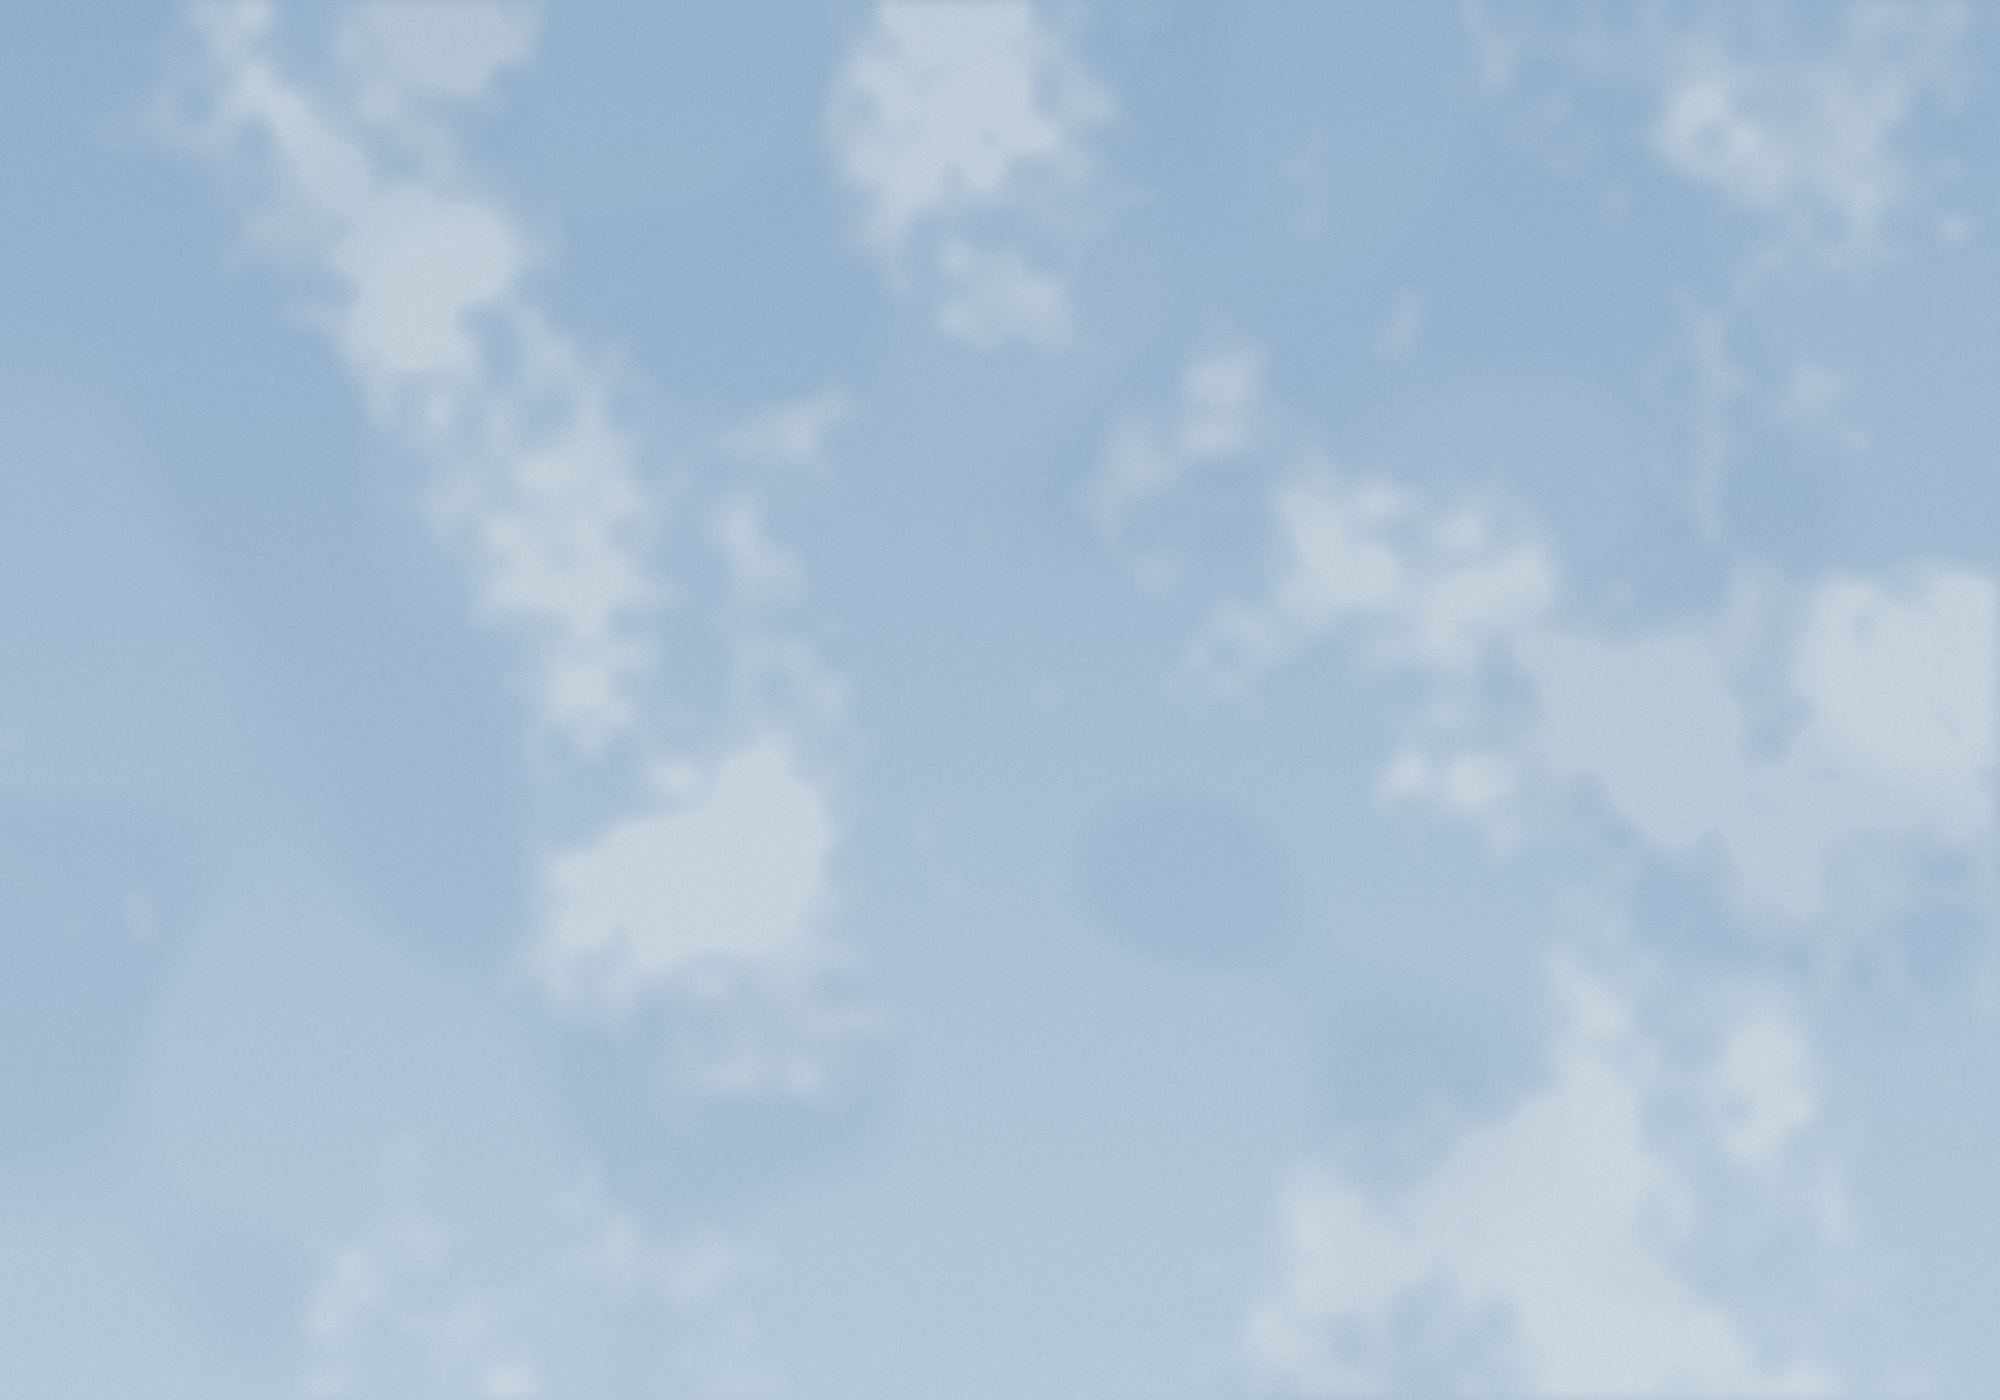
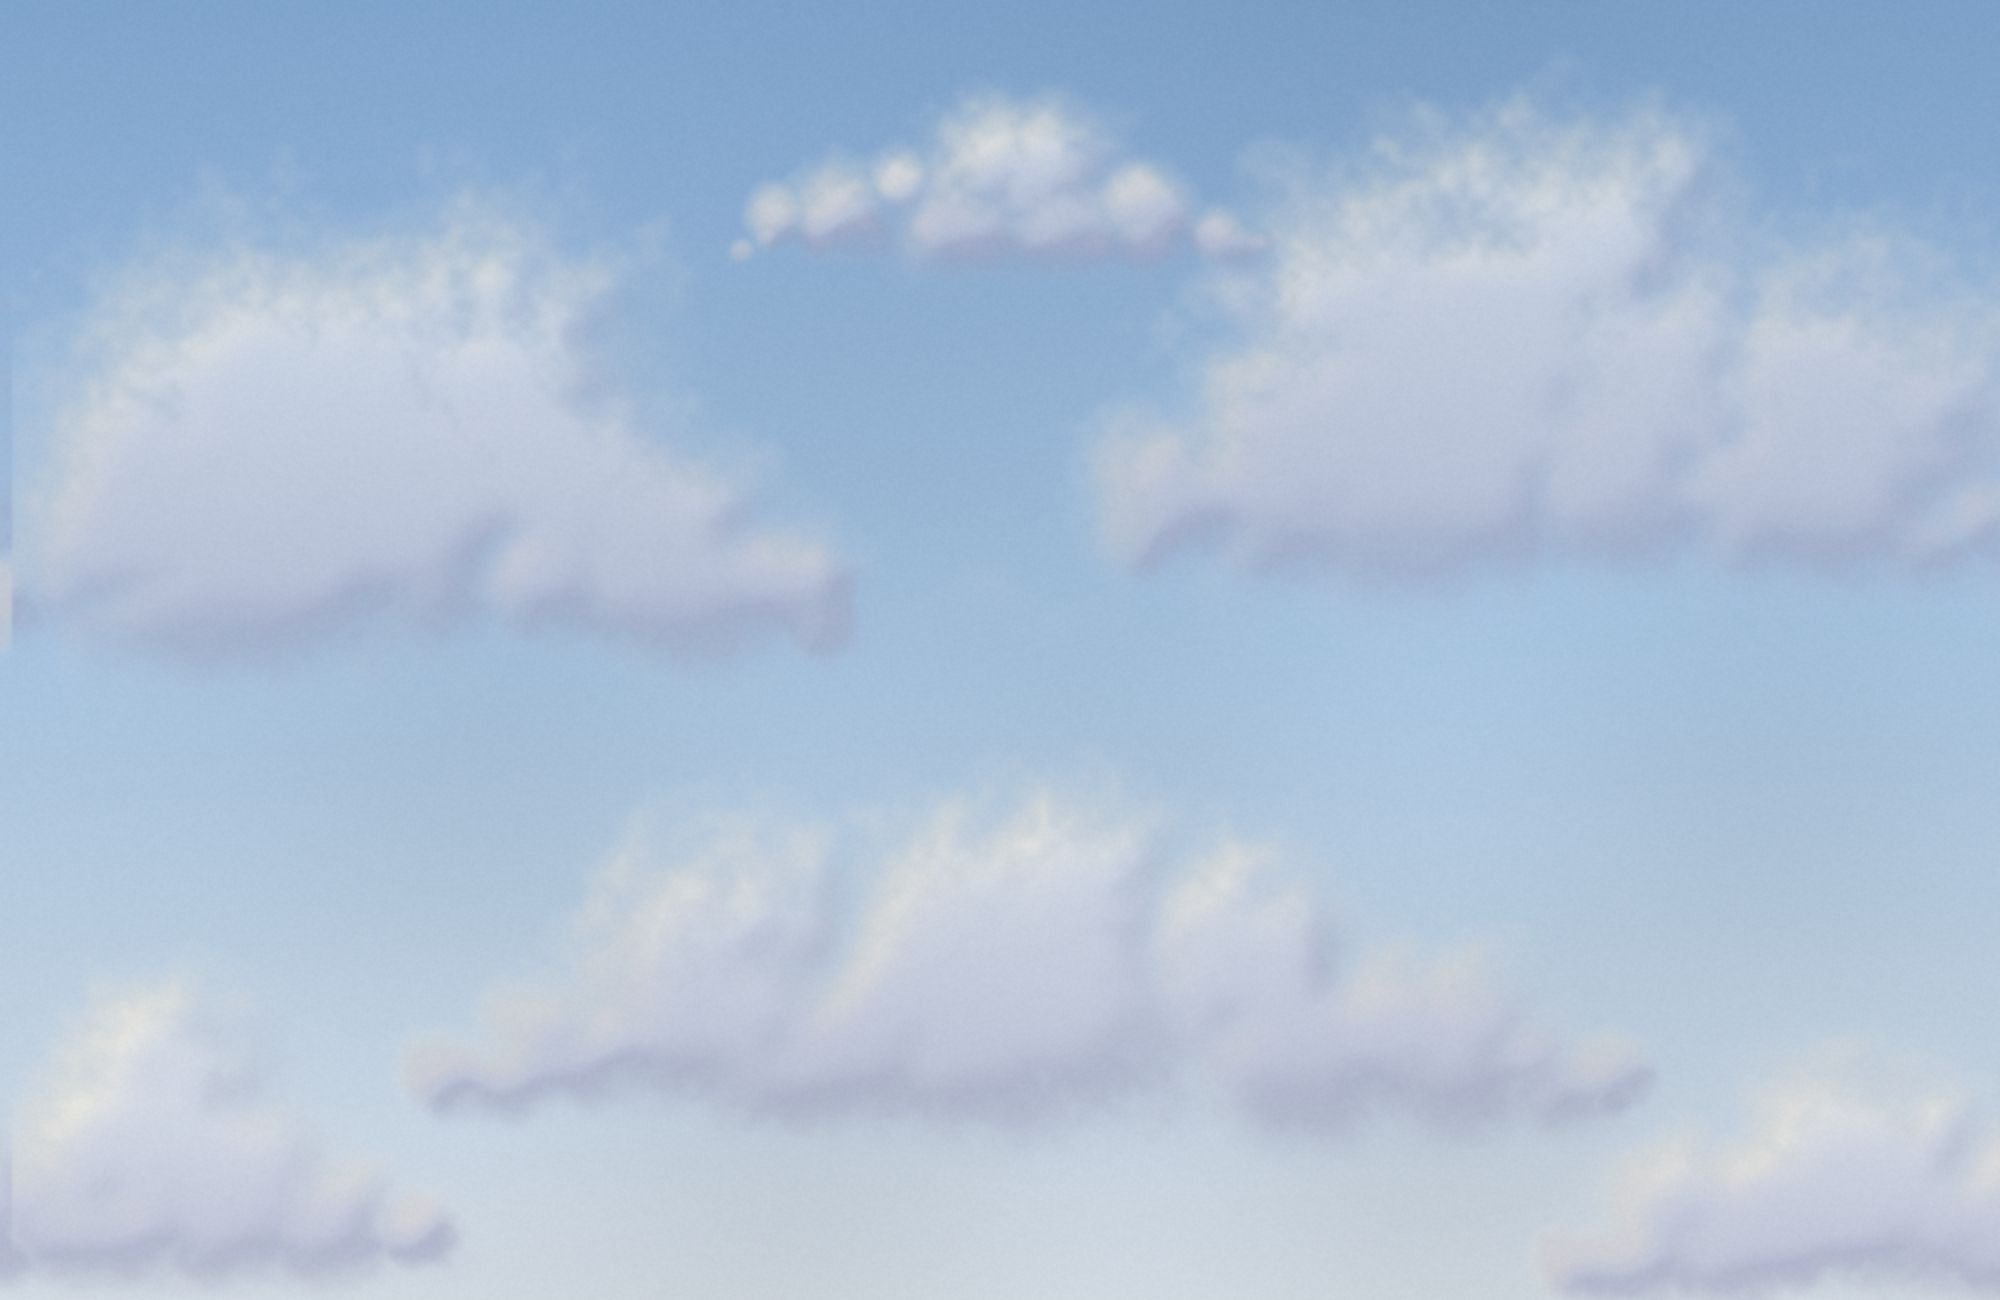
Livelier wedding florals and painted cumulus clouds
Garland and bouquets now mix wine, crimson, blush and ivory roses,
peony, anemone and clematis (all public-domain Redouté), with natural
color instead of heavy darkening. Pale blooms get solid silhouettes.
New watercolor cumulus skies, with a portrait version for phones.
Blush petals join the wine ones.

diff --git a/index.html b/index.html
@@ -13,7 +13,7 @@
   <link href="https://fonts.googleapis.com/css2?family=Cormorant+Garamond:ital,wght@0,400..700;1,400..700&family=Great+Vibes&display=swap" rel="stylesheet">
   <link rel="preload" as="image" href="images/garland.webp">
   <!-- Bump ?v= on each change so browsers fetch the new file instead of a cached one. -->
-  <link rel="stylesheet" href="styles.css?v=7">
+  <link rel="stylesheet" href="styles.css?v=8">
 </head>
 <body>
   <a class="skip" href="#ceremony">Skip to details</a>
@@ -57,11 +57,11 @@
   </svg>
 
   <header class="hero">
-    <img class="garland" src="images/garland.webp" width="2400" height="557" alt="">
+    <img class="garland" src="images/garland.webp" width="2600" height="564" alt="">
     <svg class="drape drape-left" aria-hidden="true"><use href="#drape"/></svg>
     <svg class="drape drape-right" aria-hidden="true"><use href="#drape"/></svg>
-    <img class="bouquet bouquet-left" src="images/bouquet.webp" width="1133" height="1108" alt="">
-    <img class="bouquet bouquet-right" src="images/bouquet.webp" width="1133" height="1108" alt="">
+    <img class="bouquet bouquet-left" src="images/bouquet.webp" width="1400" height="1285" alt="">
+    <img class="bouquet bouquet-right" src="images/bouquet.webp" width="1400" height="1285" alt="">
 
     <div class="invite">
       <p class="monogram" aria-hidden="true">K R</p>
@@ -206,13 +206,13 @@
   </main>
 
   <footer class="footer">
-    <img class="bouquet bouquet-left" src="images/bouquet.webp" width="1133" height="1108" alt="" loading="lazy">
-    <img class="bouquet bouquet-right" src="images/bouquet.webp" width="1133" height="1108" alt="" loading="lazy">
+    <img class="bouquet bouquet-left" src="images/bouquet.webp" width="1400" height="1285" alt="" loading="lazy">
+    <img class="bouquet bouquet-right" src="images/bouquet.webp" width="1400" height="1285" alt="" loading="lazy">
     <p class="monogram">K R</p>
     <p class="caps">December 22, 2026</p>
   </footer>
 
-  <script src="petals.js?v=7"></script>
-  <script src="rsvp.js?v=7"></script>
+  <script src="petals.js?v=8"></script>
+  <script src="rsvp.js?v=8"></script>
 </body>
 </html>

diff --git a/styles.css b/styles.css
@@ -29,6 +29,10 @@ body::before {
   z-index: -2;
   background: var(--sky) url("images/sky.jpg") center / cover no-repeat;
 }
+/* Tall screens get a sky painted for their shape, so the clouds aren't cropped away. */
+@media (orientation: portrait) {
+  body::before { background-image: url("images/sky-portrait.jpg"); }
+}
 
 #petals {
   position: fixed;
@@ -224,7 +228,8 @@ a:hover { text-decoration-color: var(--wine); }
 
 /* Phones: bouquets sit below the text instead of beside it. */
 @media (max-width: 900px) {
-  .hero { padding-bottom: calc(clamp(150px, 24vw, 360px) + 1rem); }
+  .hero .bouquet { width: clamp(170px, 32vw, 300px); }
+  .hero { padding-bottom: calc(clamp(170px, 32vw, 300px) * 0.92 + 1rem); }
   .date { gap: 0.75rem; }
 }
 

diff --git a/petals.js b/petals.js
@@ -4,7 +4,7 @@
   const canvas = document.getElementById("petals");
   if (matchMedia("(prefers-reduced-motion: reduce)").matches) return;
   const ctx = canvas.getContext("2d");
-  const COLORS = ["#7a2434", "#8e3446", "#5f1a28", "#9c4656"];
+  const COLORS = ["#7a2434", "#8e3446", "#5f1a28", "#d8919b", "#e7b3b6"];  // wine and blush
 
   let w = 0, h = 0, petals = [];
   const resize = () => {

diff --git a/README.md b/README.md
@@ -12,11 +12,14 @@ so browsers don't keep showing the old version.
 
 ## Artwork
 
-- `images/garland.webp`, `images/bouquet.webp` — composed from Pierre-Joseph Redouté's
-  *Les Roses* (1817–1824) via Wikimedia Commons: *Rosa gallica purpuro-violacea magna*,
-  *Rosa gallica pontiana*, *Rosa gallica flore giganteo* (public domain), and *Provence or
-  French Rose*, Cleveland Museum of Art (CC0). Reds toned toward wine.
-- `images/sky.jpg` — generated watercolor sky.
+- `images/garland.webp`, `images/bouquet.webp` — composed from Pierre-Joseph Redouté plates
+  on Wikimedia Commons, all public domain: from *Les Roses* (1817–1824) *Rosa gallica
+  purpuro-violacea magna*, *Rosa gallica pontiana*, *Rosa gallica flore giganteo*,
+  *Rosa centifolia foliacea*, *Rosa alba foliacea*; from *Choix des plus belles fleurs*
+  (1827–1833) plates 39 (peony), 137 (rose), and 143 (rose, anemone, clematis).
+  Brightest reds nudged toward crimson.
+- `images/sky.jpg`, `images/sky-portrait.jpg` — generated watercolor cumulus skies
+  (the portrait one is used on tall screens).
 - The drapes are drawn in SVG inside `index.html`.
 
 ## Preview locally
